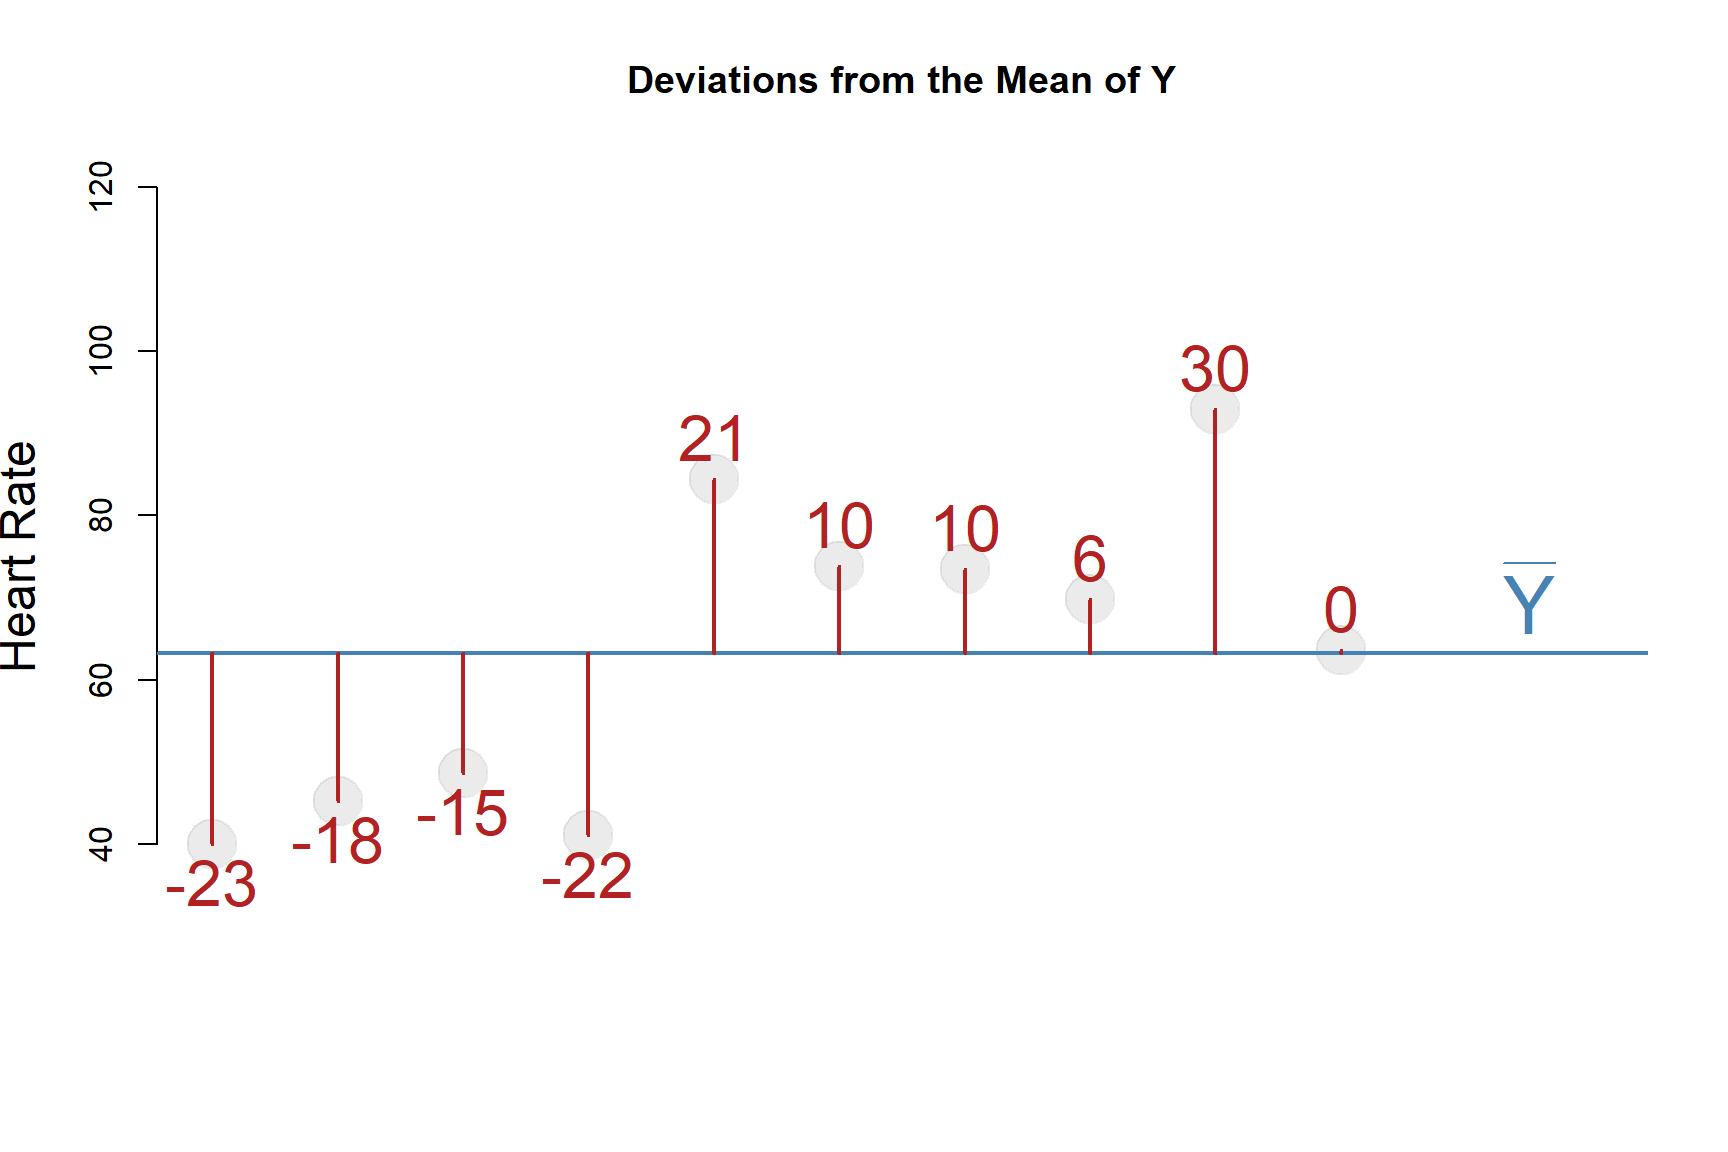
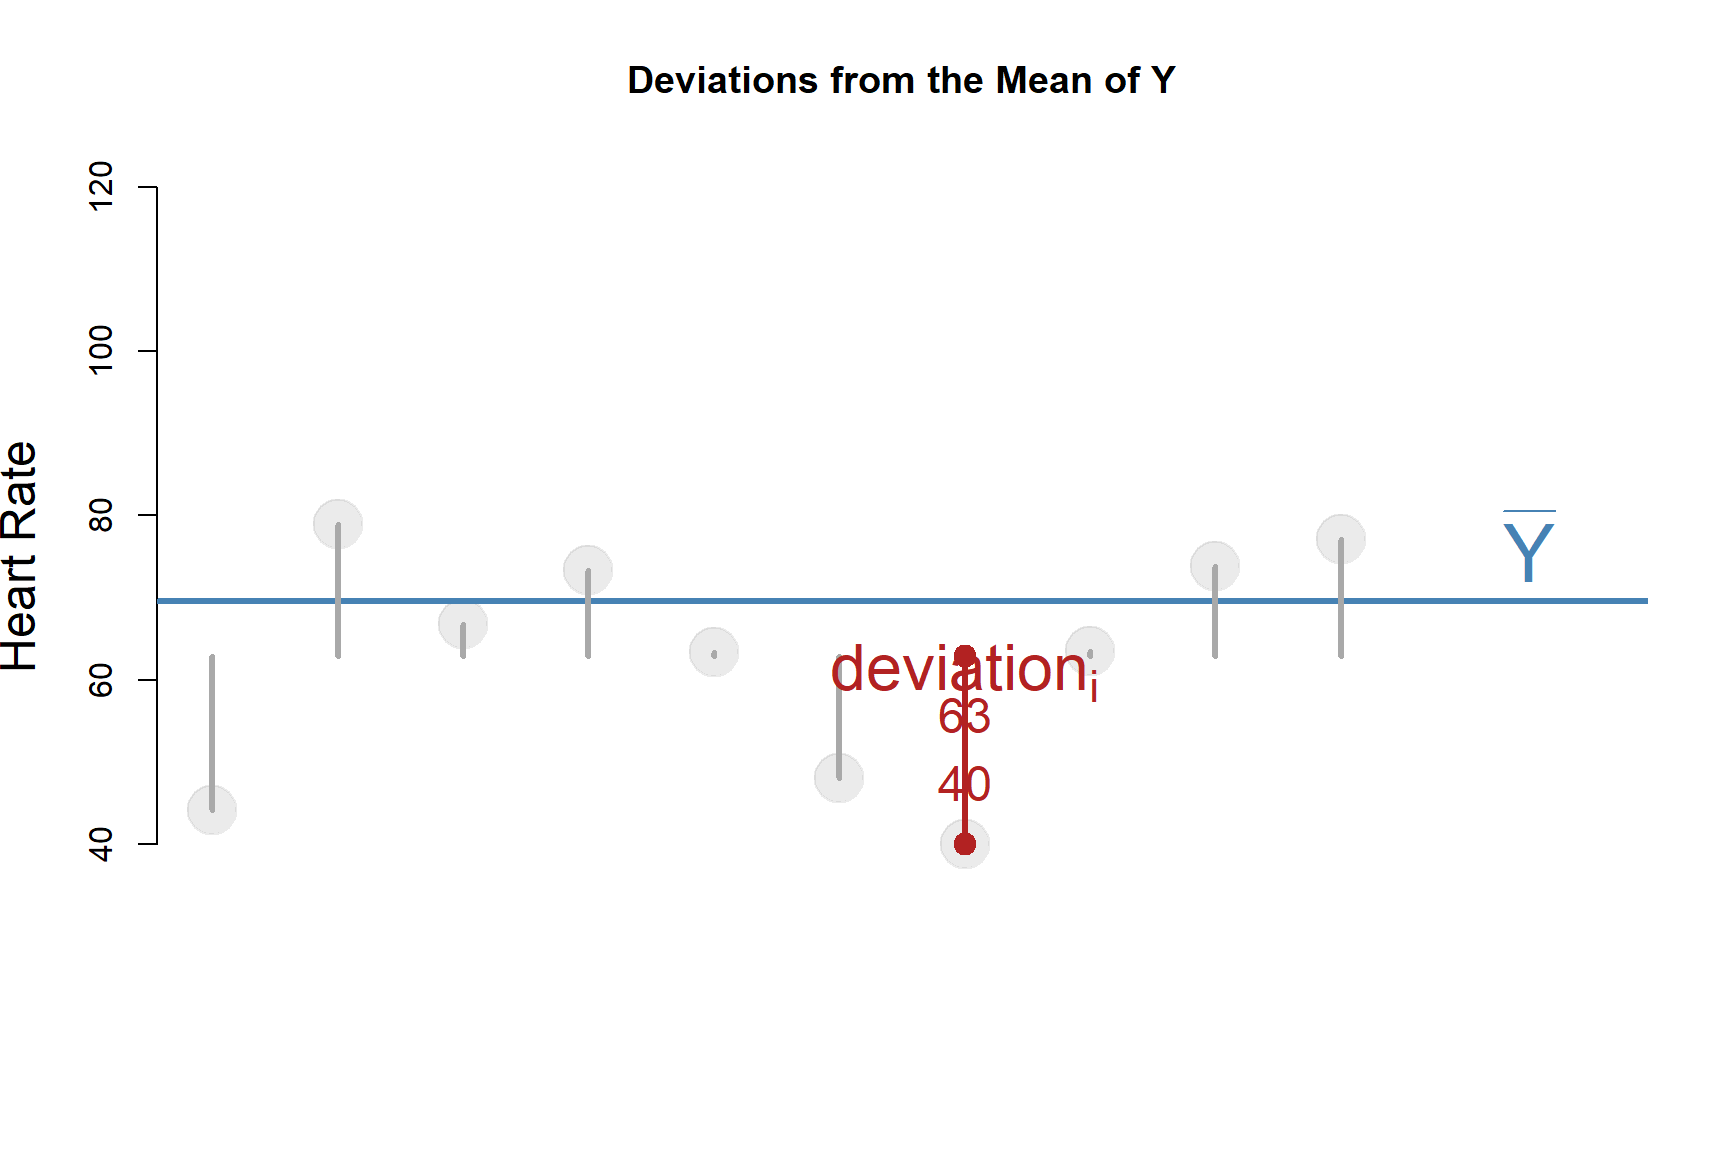
updated caffeine lecture

diff --git a/lectures/caffeine.html b/lectures/caffeine.html
@@ -135,8 +135,6 @@ $(document).ready(function () {
 <p>It looks as though heart rate does increase with the level of caffeine administered. But by how much?</p>
 <p>One simplistic way we can analyze the data is by splitting it into several ranges of treatment and calculating the average heart rate for each group:</p>
 <p><img src="caffeine_files/figure-html/unnamed-chunk-4-1.png" width="864" /></p>
-<p>Or alternatively, we could look at box and whisker plot of each group.</p>
-<p><img src="caffeine_files/figure-html/unnamed-chunk-5-1.png" width="864" /></p>
 </div>
 <div id="the-conditional-mean" class="section level2">
 <h2><span class="header-section-number">1.2</span> The Conditional Mean</h2>
@@ -494,8 +492,9 @@ Residual Std. Error
 </div>
 <p><br></p>
 <p>Let’s drill down to the first ten observations to examine this a little closer:</p>
-<p><img src="caffeine_files/figure-html/unnamed-chunk-16-1.png" width="864" /></p>
 <p><span class="math inline">\(deviation_i = y_i - \bar{y}\)</span></p>
+<p><img src="caffeine_files/figure-html/unnamed-chunk-16-1.png" width="864" /></p>
+<p>Distance from the mean of Y for all ten cases:</p>
 <p><img src="caffeine_files/figure-html/unnamed-chunk-17-1.png" width="864" /></p>
 <table style="width:78%;">
 <colgroup>
@@ -594,14 +593,14 @@ Residual Std. Error
 </tr>
 </tbody>
 </table>
-<p><span class="math inline">\(Variance(Y) = \sum{ (y_i - \bar{y})^2 } / (n-1)\)</span></p>
+<p><span class="math inline">\(var(y) = \frac{ \sum{ (y_i - \bar{y})^2 } } { (n-1) }\)</span></p>
 <p>Why will the sum of the deviations always add to zero?</p>
 <p>Since we have to square the deviations to ensure they are all positive values, we now have very odd units: heart rate squared.</p>
 <p>The <strong>standard deviation</strong> takes the square root of the variance to get us back to original units:</p>
-<p><span class="math inline">\(StdDev(Y) = \sqrt{ var(y) }\)</span></p>
+<p><span class="math inline">\(stdev(y) = \sqrt{ var(y) }\)</span></p>
 <p>Again, when you hear the term “standard” you should think of “average” or “typical”. It’s not exactly an average because you are taking squared roots of squared deviations (that’s a mouthful), but compared to the mean of the absolute values of the deviations (another mouthful) the metrics are not that far off:</p>
 <p><strong>Standard Deviation:</strong> 17.5</p>
-<p><strong>True Average Dist Between Data and Mean:</strong> 14.5</p>
+<p><strong>Average Absolute Values of Deviations:</strong> 14.5</p>
 </div>
 </div>
 <div id="r-squared-explaining-variance" class="section level1">
